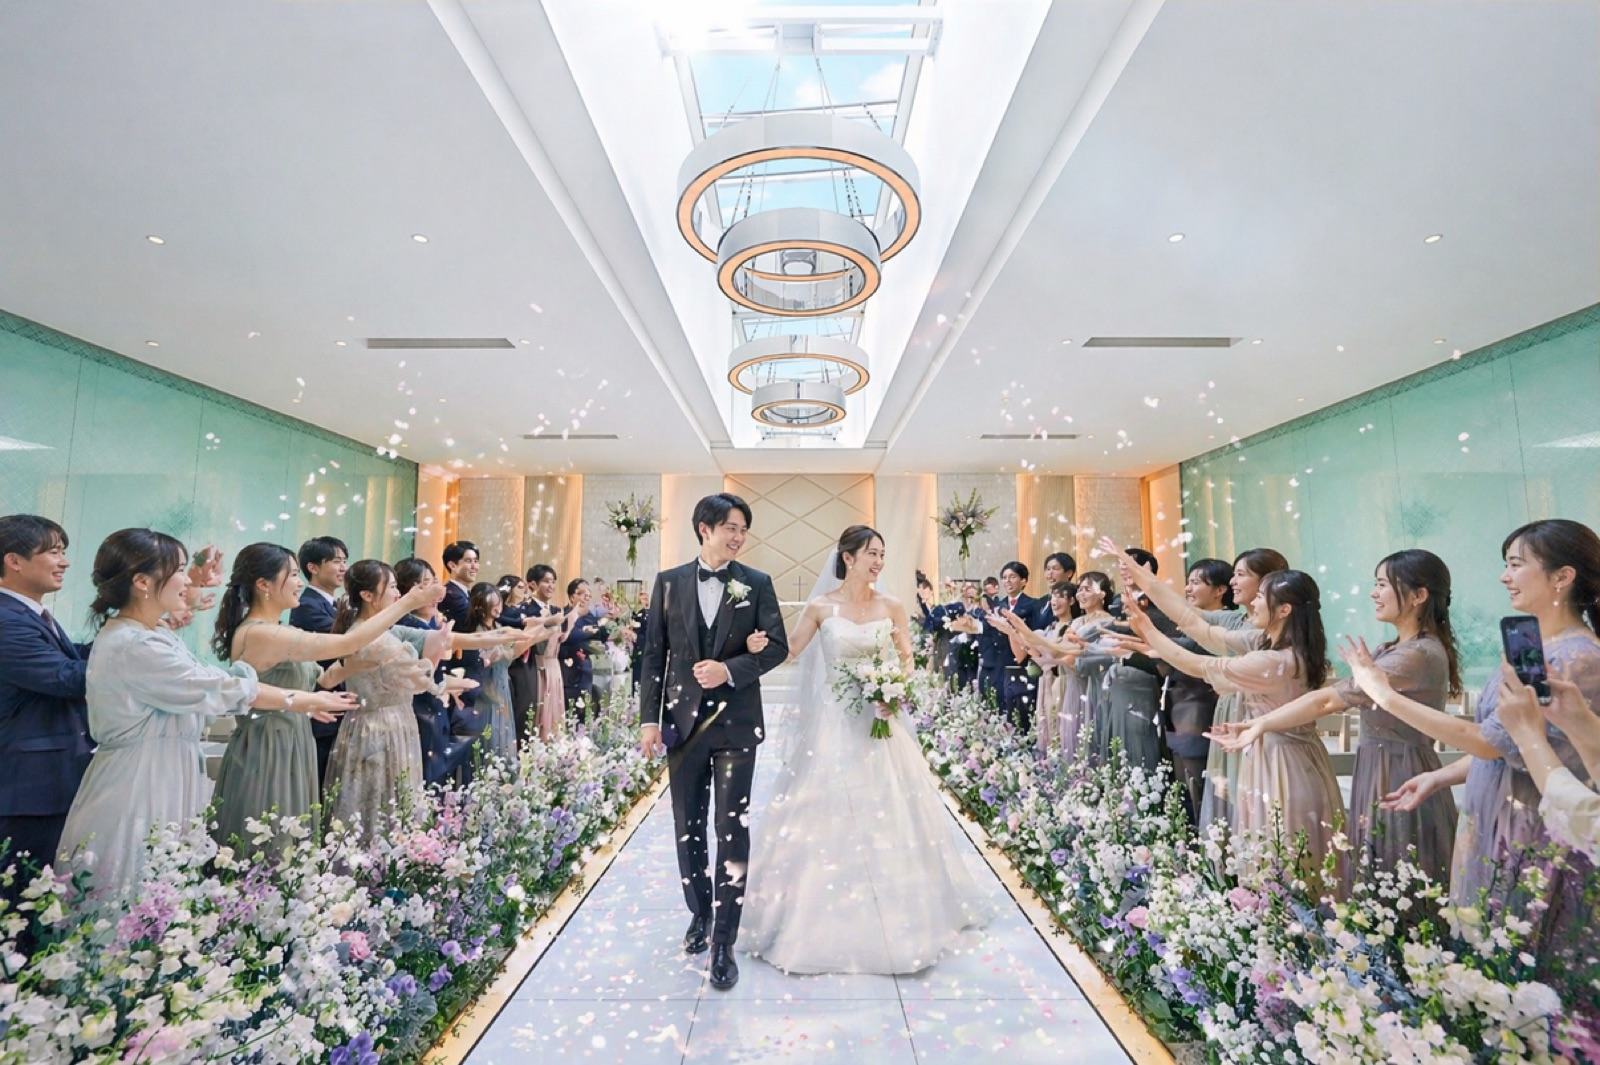
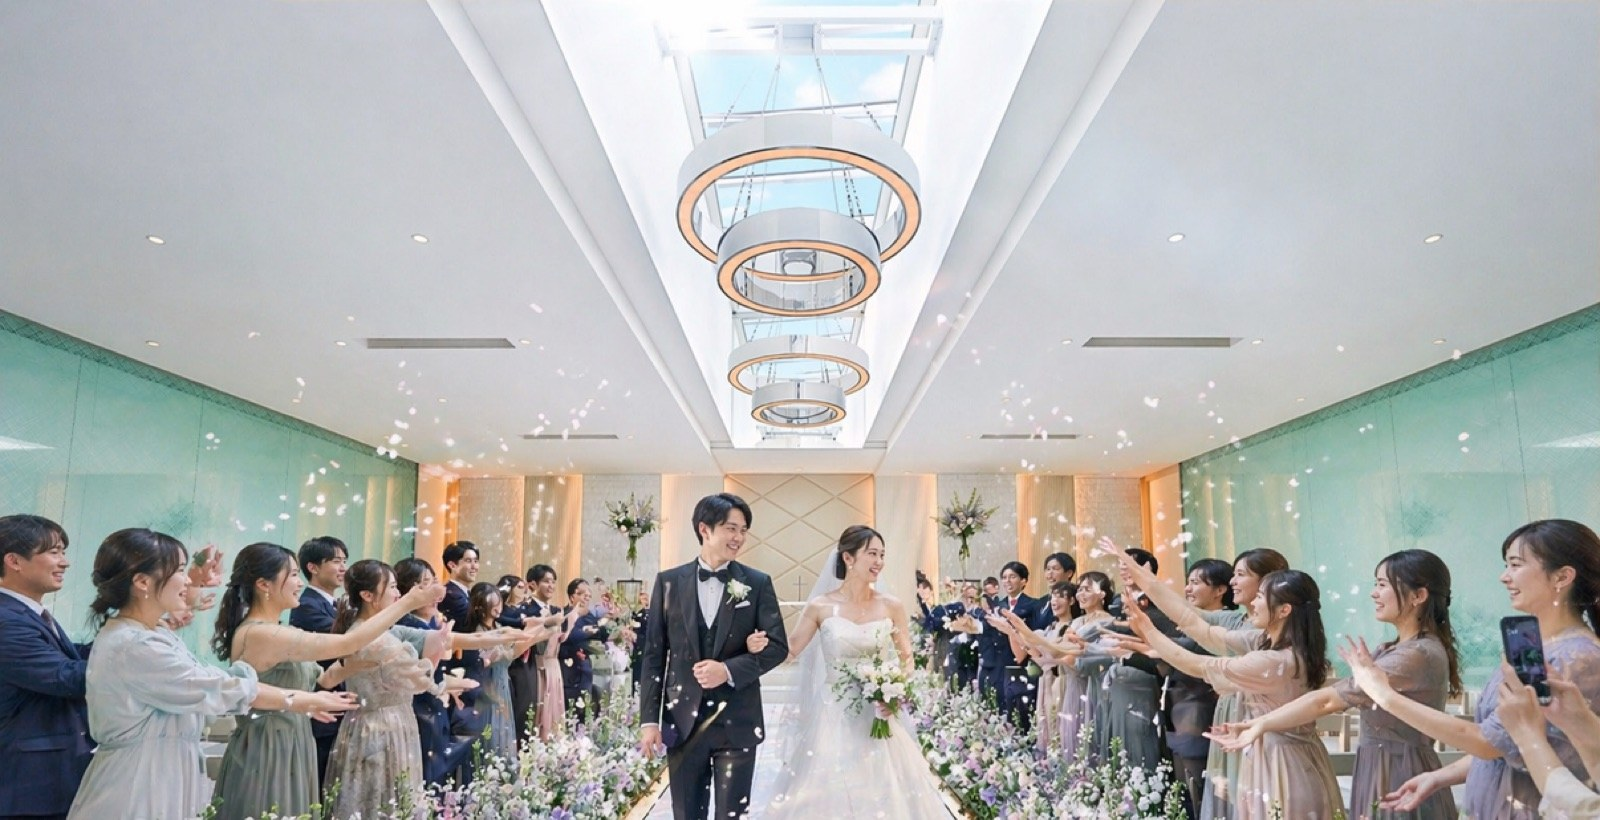
forest-terrace-hiroshima: MV1枚目を切り直して新郎新婦の顔をプレートから出す
復元したフラワーシャワーのカットが支給された原寸（1600x1065）のままで、
顔が高さ50%の位置＝プレートの下端（53%）にかかっていた。

下側を落として 1600x820 にし、顔を65%まで下げる。縦長の枠に横位置素材を
流すと横しか切られず position では上下に動かせないため、素材そのものを
切り直すしかない。他の2枚（1400x686 / 1400x699）と同じ扱い。

切り出しでファイルも 459KB → 242KB に軽くなった。

diff --git a/apps/lp/clients/forest-terrace-hiroshima/config.ts b/apps/lp/clients/forest-terrace-hiroshima/config.ts
@@ -54,9 +54,10 @@ const config: PatternCConfig = {
     ctaText: "最短30秒で予約する",
     // 新郎新婦が写真中央にいるため、キャッチを上に逃がして顔にかぶらないようにする。
     catchPosition: "top",
-    // 横位置素材を縦長に受ける。1枚目のフラワーシャワーは左右の参列者が切れるが、
-    // キャッチの下に写真の余白が残るぶんFV全体の見え方が良くなる。
-    // 各スライドは人物が下半分に来るよう素材側で切り出し済み（プレートが上55%を覆うため）。
+    // 横位置素材を縦長に受ける。左右の参列者は切れるが、キャッチの下に写真の余白が残る。
+    // プレートがFVの上53%を覆うので、各スライドは顔が65%前後に来るよう素材側で切り出し済み。
+    // 縦長の枠に横位置を流すと横しか切られず position では上下に動かせないため、
+    // 顔が隠れたら素材そのものの下側を落として相対位置を下げるしかない。
     heroAspect: "3 / 4",
     hero: {
       placeholder: "チャペル退場・フラワーシャワー",
